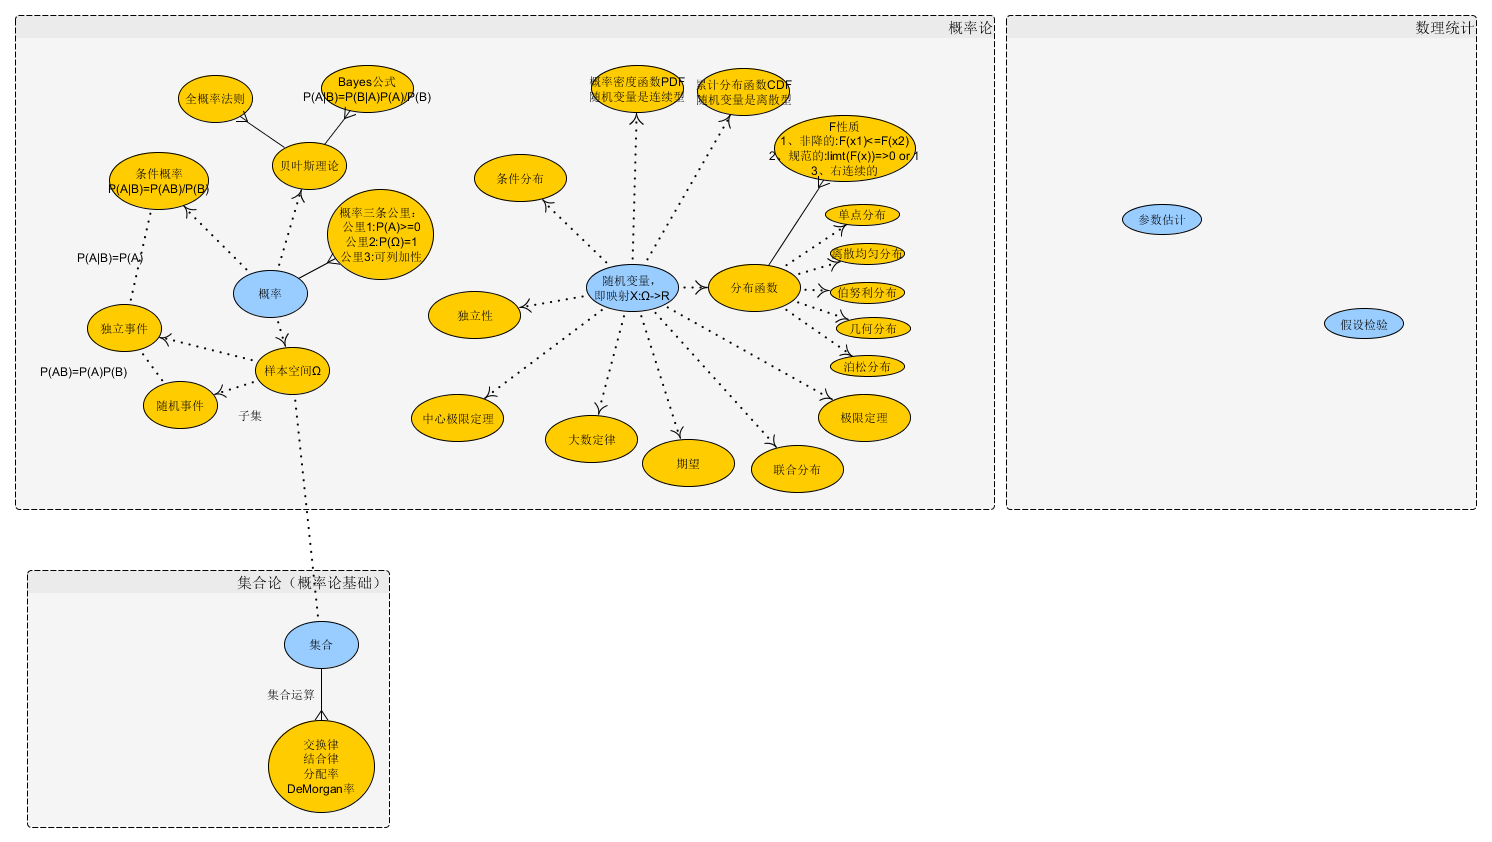
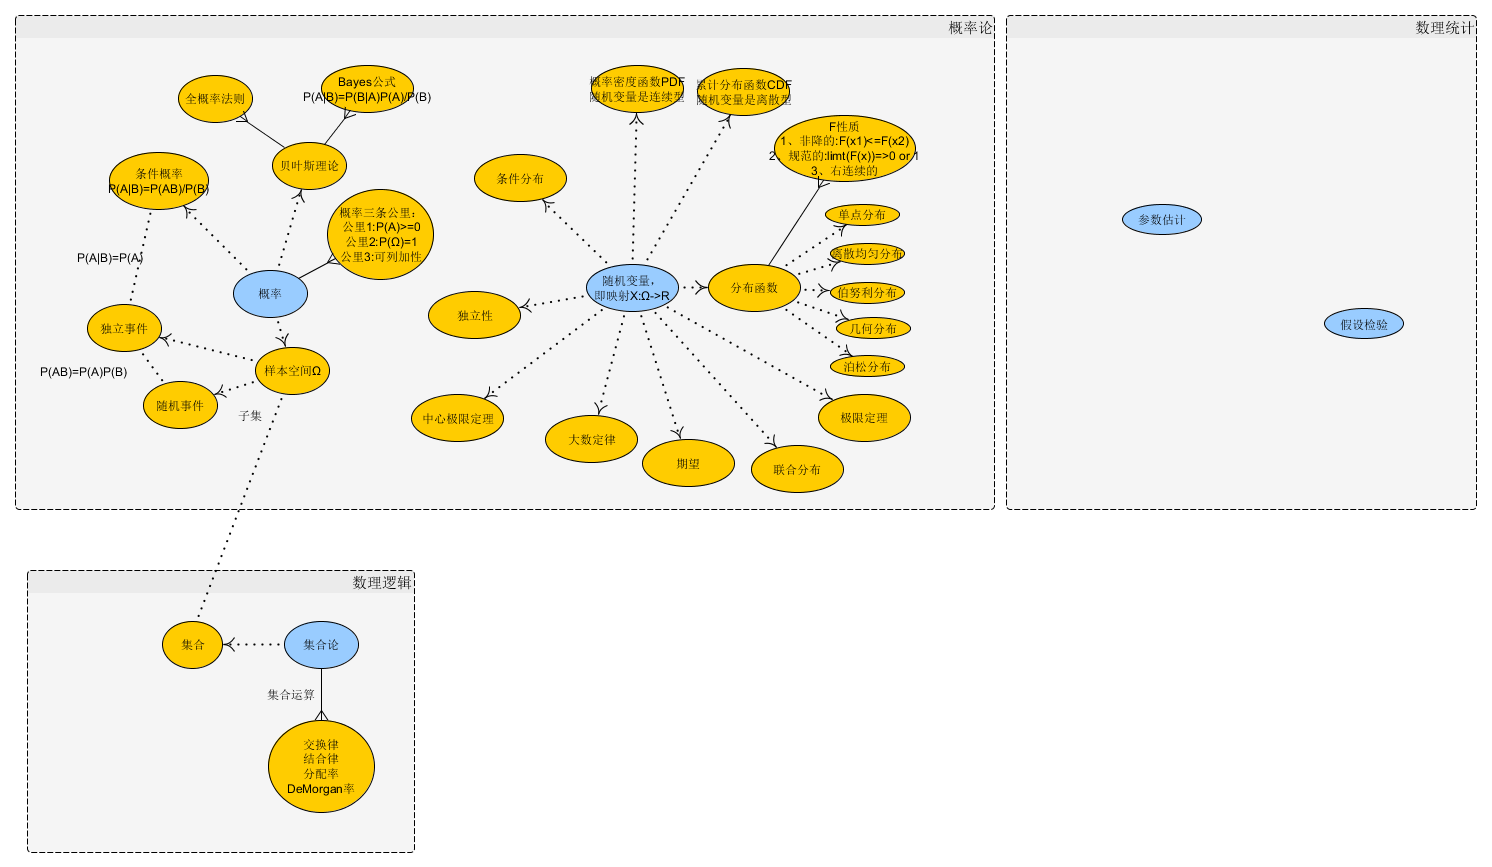
更新目录

diff --git a/有关数学/有关数学笔记.md b/有关数学/有关数学笔记.md
@@ -7,8 +7,10 @@
 	
 * [近代数学](#近代数学)
 
-	* [集合论](#集合论)
+	* [数理逻辑](#数理逻辑)
 
+		* [集合论](#集合论)
+	
 * [经典数学](#经典数学)
 
 	* [微积分](#微积分)
@@ -35,7 +37,8 @@
 	- 可加性
 
 <h2 id="近代数学">近代数学</h2>
-<h3 id="集合论">集合论</h3>
+<h3 id="数理逻辑">数理逻辑</h3>
+<h4 id="集合论">集合论</h4>
 
 <h2 id="经典数学">经典数学</h2>
 <h3 id="微积分">微积分</h3>
